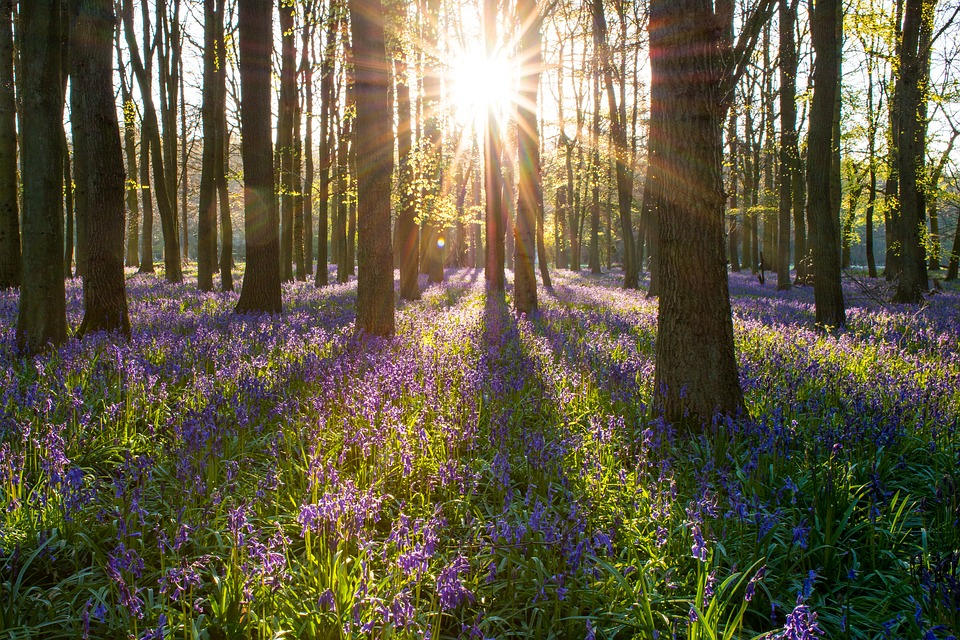
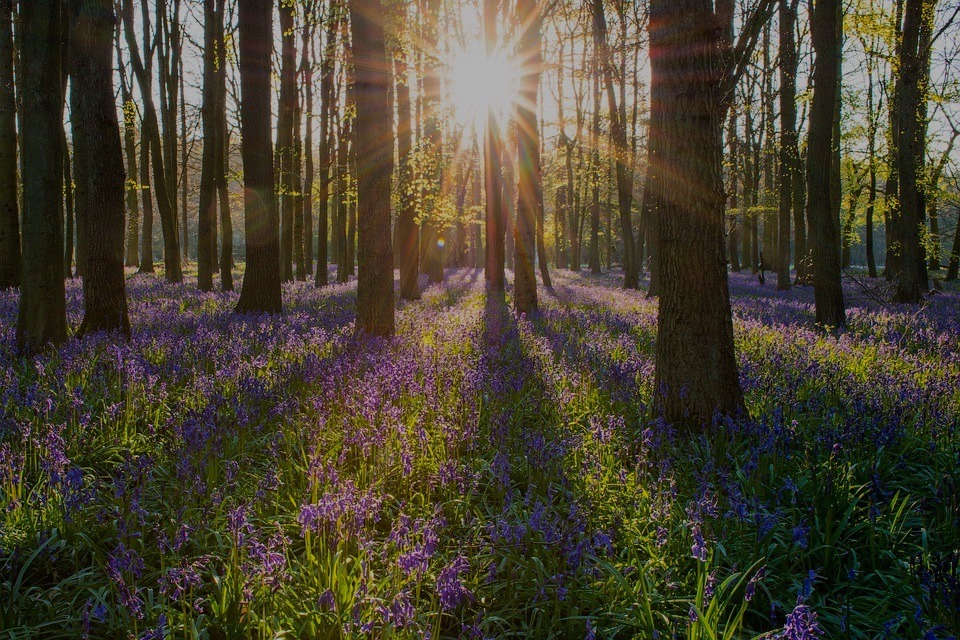
adjust width ratio for some sections, darken background images for better contrast

diff --git a/index.html b/index.html
@@ -221,8 +221,8 @@
     </div>
     <div class="container ideation-content">
         <div class="row brainstorming">
-            <img class="col-lg-4 offset-lg-1" src="./images/brainstorming.png">
-            <div class="col-lg-4 offset-lg-2 sub-section-info">
+            <img class="col-lg-5 offset-lg-1" src="./images/brainstorming.png">
+            <div class="col-lg-4 offset-lg-1 sub-section-info">
                 <h5 class="sub-title">Brainstorming</h5>
                 <p>We’ve defined the the in-depth user needs and problems, what’s next? Time to 
                     brain storm features to address the issues our team has analyzed.  We used 
@@ -236,10 +236,10 @@
                 <h5 class="sub-title">Feature Prioritization</h5>
                 <p>Team TrailMix had so many brilliant ideas, but we slimmed them down to our 
                     top-priorities (so that we could meet our project deadlines - very real life). 
-                    We used the MosCoW prioritization matrix here.
+                    We used the MoSCoW prioritization matrix here.
                 </p>
             </div>
-            <img class="col-lg-4 offset-lg-2" src="./images/prioritizationMatrix.png">
+            <img class="col-lg-5 offset-lg-1" src="./images/prioritizationMatrix.png">
         </div>
         <div class="row col-lg-10 offset-lg-1 prioritization-result">
             
@@ -332,48 +332,6 @@
                   <span class="sr-only">Next</span>
                 </a>
             </div>
-            <!-- <div class="col-lg-5 offset-lg-1 storyboard-slider">
-                <div class="board-container card">
-                    <img src="./images/storyboards/board1.png" class="board" id="board1">
-                    <div class="board-caption">
-                        <p>Chipper and John are fishing by a small lake at their campsite.</p>
-                    </div>
-                </div>
-                <div class="board-container">
-                    <img src="./images/storyboards/board2.png" class="board" id="board2">
-                    <div class="board-caption">
-                        <p>They are both having a blast, but they wish the rest of the group could join!</p>
-                    </div>
-                </div>
-                <div class="board-container">
-                    <img src="./images/storyboards/board3.png" class="board" id="board3">
-                    <div class="board-caption">
-                        <p>Chipper remembers about the Live Map feature on the TrailMix app and decides to add a pin 
-                            with an activity for his friends to see and locate him and John.
-                        </p>
-                    </div>
-                </div>
-                <div class="board-container">
-                    <img src="./images/storyboards/board4.png" class="board" id="board4">
-                    <div class="board-caption">
-                        <p>Chipper adds the activity along with description on the Live Map and makes it visible 
-                            for his friends.
-                        </p>
-                    </div>
-                </div>
-                <div class="board-container">
-                    <img src="./images/storyboards/board5.png" class="board" id="board5">
-                    <div class="board-caption">
-                        <p>Amy and Kirsten find Chipper through the Live Map and decide to go meet him and John.</p>
-                    </div>
-                </div>
-                <div class="board-container">
-                    <img src="./images/storyboards/board6.png" class="board" id="board6">
-                    <div class="board-caption">
-                        <p>The group reunites and continues their activities together.</p>
-                    </div>
-                </div>
-            </div> -->
         </div>
     </div>
 
@@ -406,13 +364,13 @@
                 </p>
                 <ul class="nav nav-pills mb-3" id="userflow-pills-tab" role="tablist">
                     <li class="nav-item" role="presentation">
-                    <a class="nav-link active" id="pills-uf-final-tab" data-toggle="pill" href="#pills-uf-final" role="tab" aria-controls="pills-userflow-final" aria-selected="true">Final</a>
+                        <a class="nav-link active" id="pills-uf-final-tab" data-toggle="pill" href="#pills-uf-final" role="tab" aria-controls="pills-userflow-final" aria-selected="true">Final</a>
                     </li>
                     <li class="nav-item" role="presentation">
-                    <a class="nav-link" id="pills-uf-draft2-tab" data-toggle="pill" href="#pills-uf-draft2" role="tab" aria-controls="pills-userflow-draft2" aria-selected="false">Iteration</a>
+                        <a class="nav-link" id="pills-uf-draft2-tab" data-toggle="pill" href="#pills-uf-draft2" role="tab" aria-controls="pills-userflow-draft2" aria-selected="false">Iteration</a>
                     </li>
                     <li class="nav-item" role="presentation">
-                    <a class="nav-link" id="pills-uf-draft1-tab" data-toggle="pill" href="#pills-uf-draft1" role="tab" aria-controls="pills-userflow-draft1" aria-selected="false">Draft</a>
+                        <a class="nav-link" id="pills-uf-draft1-tab" data-toggle="pill" href="#pills-uf-draft1" role="tab" aria-controls="pills-userflow-draft1" aria-selected="false">Draft</a>
                     </li>
                 </ul>
             </div>

diff --git a/css/styles.css b/css/styles.css
@@ -394,3 +394,13 @@ ol.carousel-indicators {
     background-color: #84a080;
     border-radius: 2px;
 }
+
+/* wireframe zone */
+.wireframes {
+    position: relative;
+}
+
+.wireframes .sub-section-info {
+    position: absolute;
+    top: 80px;
+}
